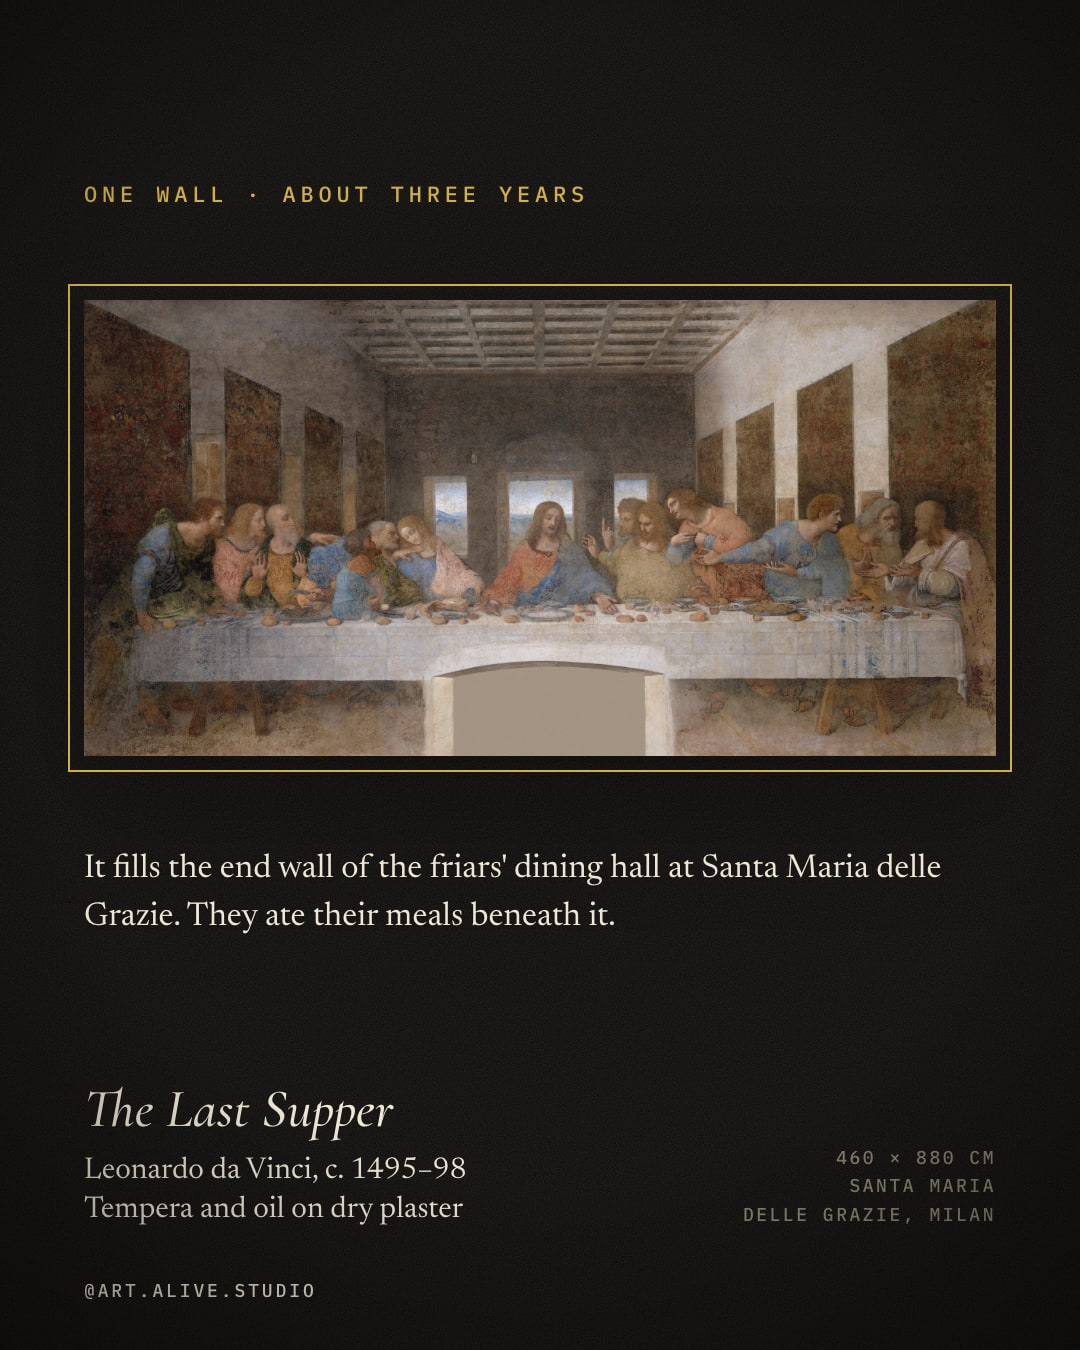
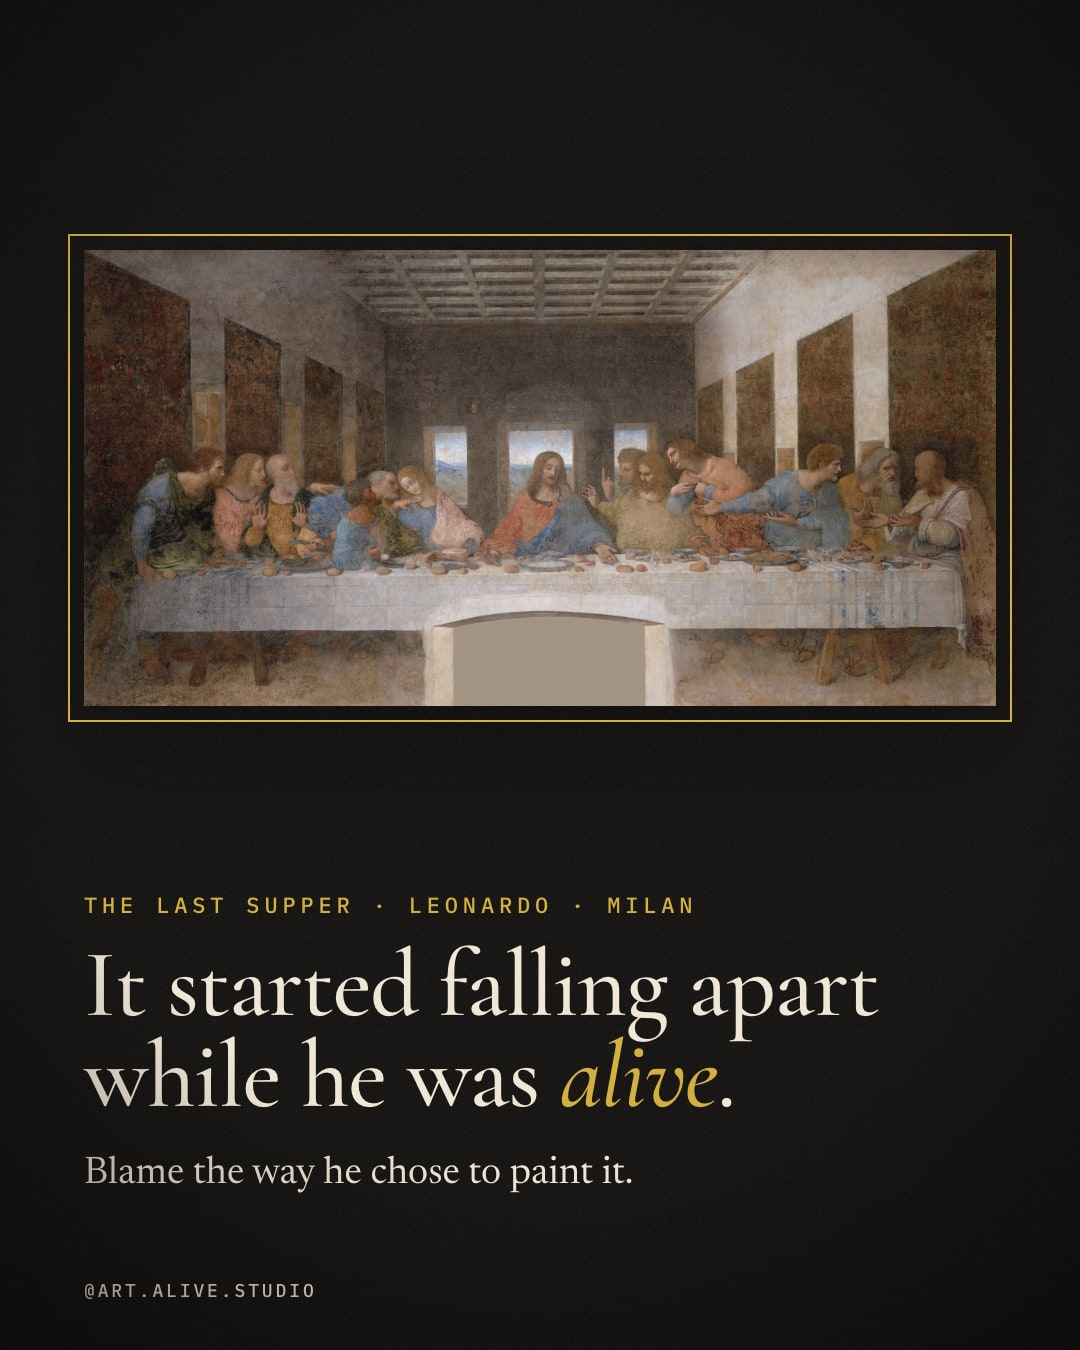
Last Supper carousel: slide 2 becomes a second hook for people who start there

diff --git a/channels/art-history/carousels/08-leonardo-last-supper/slides.html b/channels/art-history/carousels/08-leonardo-last-supper/slides.html
@@ -5,10 +5,9 @@
   .s-cover.shade-bottom::after { height: 820px; background: linear-gradient(transparent, rgba(13,11,9,.75) 40%, rgba(13,11,9,.95) 72%); }
   .s-cover .kicker, .s-cover .h-xl { text-shadow: 0 2px 24px rgba(0,0,0,.6); }
 
-  /* 02 plate: wide mural, so sit it higher and add a one-line intro */
-  .s-plate .frame { top: 300px; }
-  .plate-intro { position: absolute; left: var(--pad); right: var(--pad); top: 180px; z-index: 35; }
-  .plate-note { position: absolute; left: var(--pad); right: var(--pad); top: 846px; z-index: 35; max-width: 860px; }
+  /* 02 second hook: the whole wall up top, the hook underneath */
+  .s-hook2 .frame { top: 250px; }
+  .s-hook2 .block.bottom { bottom: 150px; }
 
   /* 03 the eyewitness: Leonardo's sketch as a torn scrap */
   .s-witness .torn { left: 110px; top: 110px; width: 820px; height: 600px; transform: rotate(-2deg); }
@@ -74,15 +73,13 @@
   </div>
 </section>
 
-<!-- 02 PLATE -->
-<section class="slide s-plate">
-  <div class="plate-intro"><div class="kicker">One wall · about three years</div></div>
+<!-- 02 SECOND HOOK: Instagram re-serves carousels from slide 2, so this one has to hook on its own -->
+<section class="slide s-plate s-hook2">
   <div class="frame" style="height:456px"><img src="img/full.jpg"></div>
-  <p class="copy plate-note">It fills the end wall of the friars' dining hall at Santa Maria delle Grazie. They ate their meals beneath it.</p>
-  <div class="label">
-    <div class="t">The Last Supper</div>
-    <div class="a">Leonardo da Vinci, c. 1495–98<br>Tempera and oil on dry plaster</div>
-    <div class="m">460 × 880 cm<br>Santa Maria<br>delle Grazie, Milan</div>
+  <div class="block bottom">
+    <div class="kicker">The Last Supper · Leonardo · Milan</div>
+    <h2 class="h-l">It started falling apart while he was <em>alive</em>.</h2>
+    <p class="lede">Blame the way he chose to paint it.</p>
   </div>
 </section>
 
